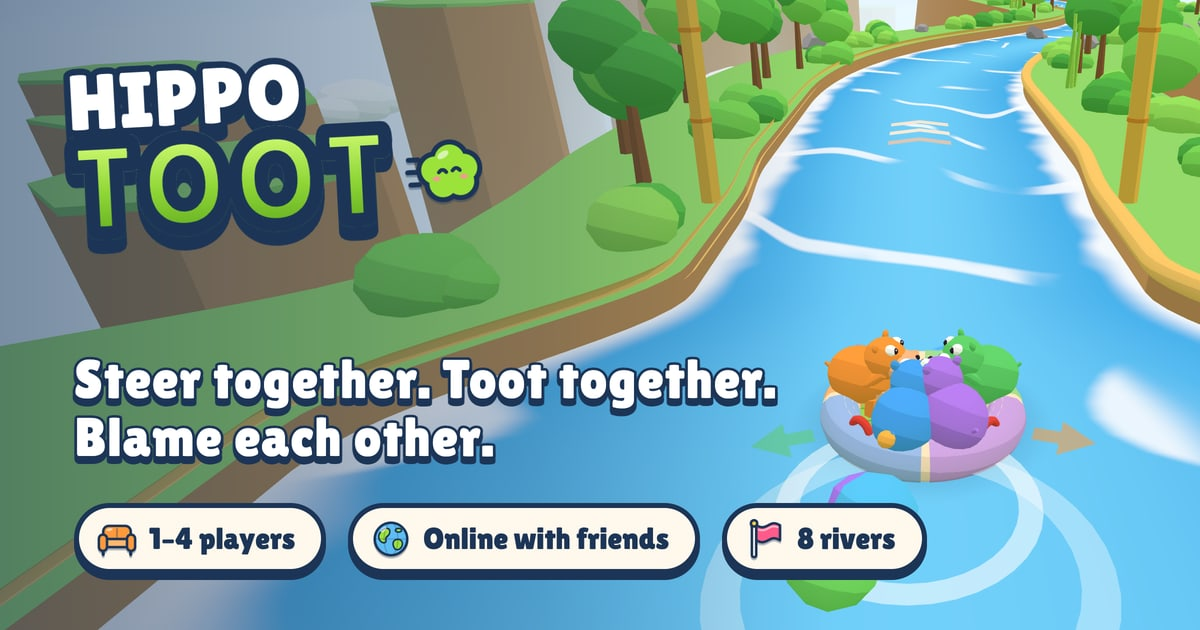
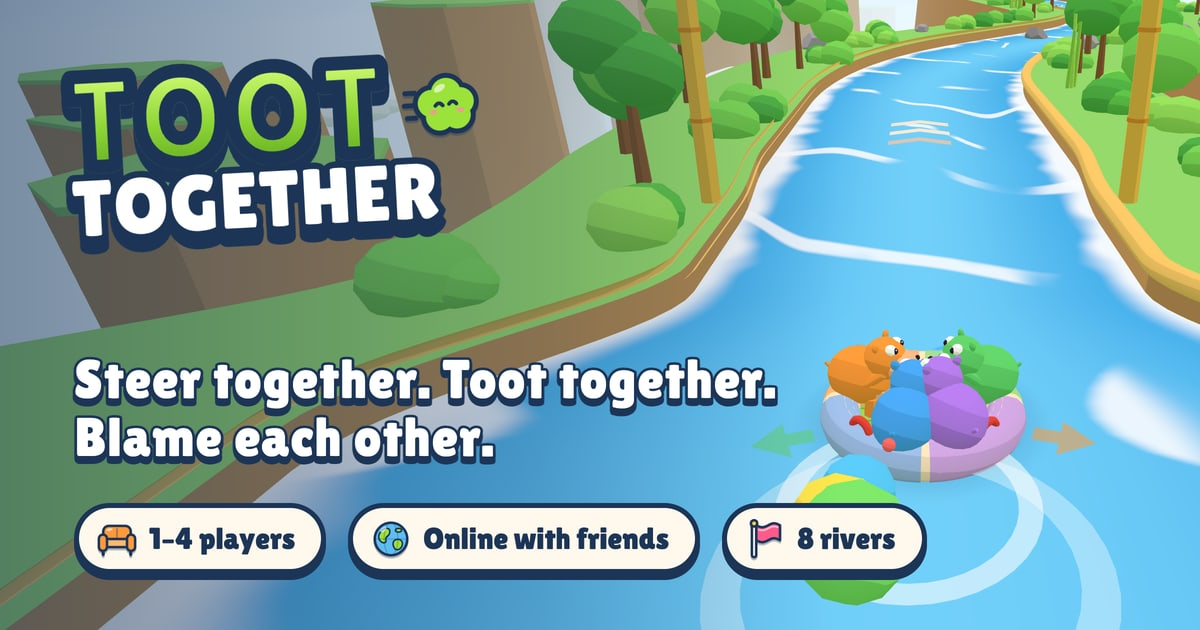
feat!: rebrand back to toot together on toottogether.fun
Restore the Toot Together name and its original logo, trailer title and
deploy layout (service toot-together, user toot, /opt and /var/lib
toot-together). toottogether.fun is the main site; www, hippotoot.fun
and toot.pakhale.com redirect to it.

Re-render the link preview card and the trailer with the restored
branding.

Changed region(s): [[0.0308, 0.0905, 0.4008, 0.4222], [0.6475, 0.6635, 0.7708, 0.8143], [0.6475, 0.9048, 0.7708, 0.9952]]

diff --git a/trailer/Overlay.tsx b/trailer/Overlay.tsx
@@ -38,7 +38,7 @@ function sounds(b: Beat) {
   cue(i, 0.1, 'puff', () => audio.fartStart('intro', 1))
   cue(i, 0.4, 'puffEnd', () => audio.fartStop('intro'))
   cue(i, 0.95, 'slam', () => audio.burst(0, 0))
-  cue(i, 1.4, 'hippo', () => audio.boing())
+  cue(i, 1.4, 'together', () => audio.boing())
   cue(i, 2.2, 'tag1', () => audio.click())
   cue(i, 2.85, 'tag2', () => audio.click())
   cue(i, 3.3, 'longToot', () => audio.fartStart('introLong', 3))
@@ -78,26 +78,12 @@ function Logo({ t, scale = 1 }: { t: number; scale?: number }) {
   const slam = prog(t, 0, 0.32)
   const toot = slam > 0 ? 2.6 - 1.6 * outBack(slam) : 0
   const icon = outBack(prog(t, 0.25, 0.3))
-  const hippo = outBack(prog(t, 0.45, 0.32))
+  const together = outBack(prog(t, 0.45, 0.32))
   const shake = t > 0.3 && t < 0.62 ? Math.sin(t * 90) * 10 * (0.62 - t) * 3 : 0
   const bob = Math.sin(t * 2.4) * 6
   return (
     <div style={{ transform: `translate(${shake}px, ${bob}px) scale(${scale}) rotate(-3deg)`, textAlign: 'center' }}>
-      <div
-        className="font-display stroke-text text-white"
-        style={{
-          fontSize: 130,
-          lineHeight: 0.9,
-          marginBottom: -8,
-          WebkitTextStrokeWidth: 11,
-          filter: `drop-shadow(0 8px 0 ${INK})`,
-          transform: `translateY(${(hippo - 1) * 80}px) scale(${0.4 + 0.6 * hippo})`,
-          opacity: clamp(hippo * 3),
-        }}
-      >
-        HIPPO
-      </div>
-      <div style={{ display: 'flex', alignItems: 'center', justifyContent: 'center', gap: '0.12em', fontSize: 210, opacity: slam > 0 ? 1 : 0 }}>
+      <div style={{ display: 'flex', alignItems: 'center', justifyContent: 'center', gap: '0.12em', fontSize: 200, opacity: slam > 0 ? 1 : 0 }}>
         <div
           className="font-display stroke-text"
           style={{
@@ -114,6 +100,20 @@ function Logo({ t, scale = 1 }: { t: number; scale?: number }) {
           TOOT
         </div>
         <Icon name="toot" size="0.62em" style={{ transform: `scale(${icon}) rotate(${Math.sin(t * 5) * 8}deg)` }} />
+      </div>
+      <div
+        className="font-display stroke-text text-white"
+        style={{
+          fontSize: 122,
+          lineHeight: 0.9,
+          marginTop: -10,
+          WebkitTextStrokeWidth: 11,
+          filter: `drop-shadow(0 8px 0 ${INK})`,
+          transform: `translateY(${(1 - together) * 80}px) scale(${0.4 + 0.6 * together})`,
+          opacity: clamp(together * 3),
+        }}
+      >
+        TOGETHER
       </div>
     </div>
   )
@@ -235,7 +235,7 @@ function Outro({ t }: { t: number }) {
         </Pop>
         <Pop t={t} at={1.7}>
           <div className="font-display" style={{ fontSize: 76, color: INK, background: '#fff8ec', border: `6px solid ${INK}`, borderRadius: 999, padding: '6px 46px 12px', boxShadow: `0 10px 0 ${INK}` }}>
-            hippotoot.fun
+            toottogether.fun
           </div>
         </Pop>
         <div style={{ display: 'flex', gap: 22, marginTop: 14 }}>

diff --git a/index.html b/index.html
@@ -6,10 +6,10 @@
     <meta name="format-detection" content="telephone=no" />
     <!-- Painted before the CSS bundle arrives, so a home-screen launch never flashes white. -->
     <style>html{background:#fde7cf}</style>
-    <title>Hippo Toot: a co-op hippo raft party game</title>
+    <title>Toot Together: a co-op hippo raft party game</title>
     <meta name="description" content="Up to four hippos, one inflatable raft, and only one way to steer it. A free co-op party game for your browser: play solo, on the couch, or online with friends." />
     <meta name="theme-color" content="#5fbdf3" />
-    <link rel="canonical" href="https://hippotoot.fun/" />
+    <link rel="canonical" href="https://toottogether.fun/" />
 
     <link rel="icon" href="/favicon.svg" type="image/svg+xml" />
     <link rel="icon" href="/favicon-32.png" sizes="32x32" type="image/png" />
@@ -17,26 +17,26 @@
     <link rel="manifest" href="/manifest.webmanifest" />
     <meta name="apple-mobile-web-app-capable" content="yes" />
     <meta name="mobile-web-app-capable" content="yes" />
-    <meta name="apple-mobile-web-app-title" content="Hippo Toot" />
+    <meta name="apple-mobile-web-app-title" content="Toot Together" />
     <meta name="apple-mobile-web-app-status-bar-style" content="black-translucent" />
 
     <meta property="og:type" content="website" />
-    <meta property="og:site_name" content="Hippo Toot" />
-    <meta property="og:title" content="Hippo Toot" />
+    <meta property="og:site_name" content="Toot Together" />
+    <meta property="og:title" content="Toot Together" />
     <meta property="og:description" content="Steer together. Toot together. Blame each other. A free co-op hippo raft party game. Grab up to 3 friends and float!" />
-    <meta property="og:url" content="https://hippotoot.fun/" />
-    <meta property="og:image" content="https://hippotoot.fun/og.jpg" />
+    <meta property="og:url" content="https://toottogether.fun/" />
+    <meta property="og:image" content="https://toottogether.fun/og.jpg" />
     <meta property="og:image:width" content="1200" />
     <meta property="og:image:height" content="630" />
     <meta property="og:image:alt" content="Four cartoon hippos on an inflatable raft floating down a river" />
     <meta name="twitter:card" content="summary_large_image" />
-    <meta name="twitter:title" content="Hippo Toot" />
+    <meta name="twitter:title" content="Toot Together" />
     <meta name="twitter:description" content="Steer together. Toot together. Blame each other. A free co-op hippo raft party game." />
-    <meta name="twitter:image" content="https://hippotoot.fun/og.jpg" />
+    <meta name="twitter:image" content="https://toottogether.fun/og.jpg" />
   </head>
   <body>
     <div id="root"></div>
-    <noscript>Hippo Toot needs JavaScript to run.</noscript>
+    <noscript>Toot Together needs JavaScript to run.</noscript>
     <script type="module" src="/src/client/main.tsx"></script>
   </body>
 </html>

diff --git a/src/client/ui/Logo.tsx b/src/client/ui/Logo.tsx
@@ -3,13 +3,7 @@ import { Icon } from './Icon'
 export function Logo({ size = 'lg' }: { size?: 'lg' | 'md' }) {
   const big = size === 'lg'
   return (
-    <div className="relative inline-block select-none -rotate-3 anim-float" aria-label="Hippo Toot">
-      <div
-        className="font-display stroke-text leading-[0.9] text-white"
-        style={{ fontSize: big ? 'clamp(28px, min(5.6vw, 8vh), 76px)' : '34px', filter: 'drop-shadow(0 5px 0 var(--color-ink))', marginBottom: big ? -4 : -2 }}
-      >
-        HIPPO
-      </div>
+    <div className="relative inline-block select-none -rotate-3 anim-float" aria-label="Toot Together">
       <div className="flex items-center gap-[0.12em]" style={{ fontSize: big ? 'clamp(44px, min(9vw, 13vh), 124px)' : '56px' }}>
         <div
           className="font-display stroke-text leading-[0.85]"
@@ -25,6 +19,12 @@ export function Logo({ size = 'lg' }: { size?: 'lg' | 'md' }) {
           TOOT
         </div>
         <Icon name="toot" size="0.62em" className="anim-wobble" />
+      </div>
+      <div
+        className="font-display stroke-text leading-[0.9] text-white"
+        style={{ fontSize: big ? 'clamp(28px, min(5.6vw, 8vh), 76px)' : '34px', filter: 'drop-shadow(0 5px 0 var(--color-ink))', marginTop: big ? -6 : -2 }}
+      >
+        TOGETHER
       </div>
     </div>
   )

diff --git a/.agents/skills/verify-toot-together/scripts/vite.verify.config.ts b/.agents/skills/verify-toot-together/scripts/vite.verify.config.ts
@@ -1,14 +1,14 @@
 // Verification scaffolding, not product code. The repo's vite.config.ts hard-codes the /ws proxy
 // to ws://localhost:2567, so a verification instance on other ports would talk to whatever
 // `pnpm dev` the user has running. This wraps the repo config unchanged and only overrides where
-// it listens, where /ws goes, and where Vite keeps its dependency cache. hippo-verify sets the env.
+// it listens, where /ws goes, and where Vite keeps its dependency cache. toot-verify sets the env.
 import { mergeConfig } from 'vite'
 import base from '../../../../vite.config'
 
 const webPort = Number(process.env.TOOT_VERIFY_WEB_PORT)
 const serverPort = Number(process.env.TOOT_VERIFY_SERVER_PORT)
 const cacheDir = process.env.TOOT_VERIFY_VITE_CACHE
-if (!webPort || !serverPort || !cacheDir) throw new Error('Run this through hippo-verify up, which sets TOOT_VERIFY_* env vars.')
+if (!webPort || !serverPort || !cacheDir) throw new Error('Run this through toot-verify up, which sets TOOT_VERIFY_* env vars.')
 
 export default mergeConfig(base, {
   cacheDir,

diff --git a/src/client/ui/InstallPrompt.tsx b/src/client/ui/InstallPrompt.tsx
@@ -16,8 +16,8 @@ export function InstallPrompt() {
         <div className="font-display mt-2 text-3xl">Install the game</div>
         <p className="mt-2 font-extrabold text-ink/70">
           {ios
-            ? 'Tap Share, then "Add to Home Screen". Hippo Toot opens from there full screen, with no browser bars.'
-            : 'Add Hippo Toot to your home screen. It opens full screen, with no browser bars, and solo games work offline.'}
+            ? 'Tap Share, then "Add to Home Screen". Toot Together opens from there full screen, with no browser bars.'
+            : 'Add Toot Together to your home screen. It opens full screen, with no browser bars, and solo games work offline.'}
         </p>
         <div className="mt-5 flex gap-3">
           <button autoFocus={ios} className={`btn ${ios ? 'btn-green' : 'btn-cream'} flex-1 text-xl`} onClick={() => (audio.click(), dismissInstall())}>

diff --git a/scripts/level-shots.ts b/scripts/level-shots.ts
@@ -25,7 +25,7 @@ try {
   for (const { def, n } of courses) {
     const page = await browser.newPage({ viewport: { width: SIZE.width * 2, height: SIZE.height * 2 } })
     page.on('pageerror', (e) => console.error(`${def.id}: page error:`, e.message))
-    await page.addInitScript((p) => localStorage.setItem('hippo-toot:progress', p), progress)
+    await page.addInitScript((p) => localStorage.setItem('toot-together:progress', p), progress)
     await page.goto(url)
     await page.getByRole('button', { name: 'Play solo' }).click()
     await page.getByRole('button', { name: new RegExp(`^${n} ${def.name}`) }).click()

diff --git a/src/client/ui/Results.tsx b/src/client/ui/Results.tsx
@@ -77,7 +77,7 @@ export function Results() {
     const text = `Our hippo crew floated ${def?.name ?? 'the river'} in ${formatTime(results.time)} with ${plural(results.deaths, 'death')}${medal ? ` (${MEDAL_NAME[medal]} medal)` : ''}. Toot along:`
     const url = location.origin
     try {
-      if (navigator.share) await navigator.share({ title: 'Hippo Toot', text, url })
+      if (navigator.share) await navigator.share({ title: 'Toot Together', text, url })
       else {
         await navigator.clipboard.writeText(`${text} ${url}`)
         setShared(true)

diff --git a/src/client/ui/FullscreenButton.tsx b/src/client/ui/FullscreenButton.tsx
@@ -20,7 +20,7 @@ export function FullscreenButton({ className = '' }: { className?: string }) {
           setNotice({
             icon: 'share',
             title: 'Play full screen',
-            message: 'Tap Share, then "Add to Home Screen". Hippo Toot opens from there with no browser bars.',
+            message: 'Tap Share, then "Add to Home Screen". Toot Together opens from there with no browser bars.',
           })
         else if (full) exitFullscreen()
         else void enterFullscreen()

diff --git a/tests/server.ts b/tests/server.ts
@@ -29,7 +29,7 @@ export function startServer(port: number, roomsFile = '') {
   return new Promise<{ proc: ChildProcess; log: string[] }>((resolve, reject) => {
     const onData = (chunk: Buffer) => {
       log.push(String(chunk))
-      if (String(chunk).includes('Hippo Toot server on')) resolve({ proc, log })
+      if (String(chunk).includes('Toot Together server on')) resolve({ proc, log })
     }
     proc.stdout!.on('data', onData)
     proc.stderr!.on('data', onData)

diff --git a/src/client/platform.ts b/src/client/platform.ts
@@ -97,7 +97,7 @@ async function requestWakeLock() {
 /** Chrome's deferred install dialog; not in the DOM typings. */
 type InstallPromptEvent = Event & { prompt(): Promise<void> }
 
-const INSTALL_DISMISSED_KEY = 'hippo-toot:install-dismissed'
+const INSTALL_DISMISSED_KEY = 'toot-together:install-dismissed'
 
 let installEvent: InstallPromptEvent | null = null
 let installDismissed = (() => {

diff --git a/src/client/state/store.ts b/src/client/state/store.ts
@@ -34,7 +34,7 @@ export interface Toast {
 
 const FUNNY_NAMES = ['Bubbles', 'Gassy', 'Tooter', 'Pudding', 'Mudpie', 'Biscuit', 'Wobbles', 'Beans', 'Puddle', 'Snorty', 'Noodle', 'Chonk']
 
-const SETTINGS_KEY = 'hippo-toot:settings'
+const SETTINGS_KEY = 'toot-together:settings'
 
 function loadSettings(): Settings {
   const fallback: Settings = {

diff --git a/src/client/state/progress.ts b/src/client/state/progress.ts
@@ -75,7 +75,7 @@ export const useProgress = create<ProgressState>()(
       },
     }),
     {
-      name: 'hippo-toot:progress',
+      name: 'toot-together:progress',
       version: 1,
       storage: createJSONStorage(() => localStorage),
       partialize: (s) => ({ records: s.records, selected: s.selected, tutorialDone: s.tutorialDone }),
